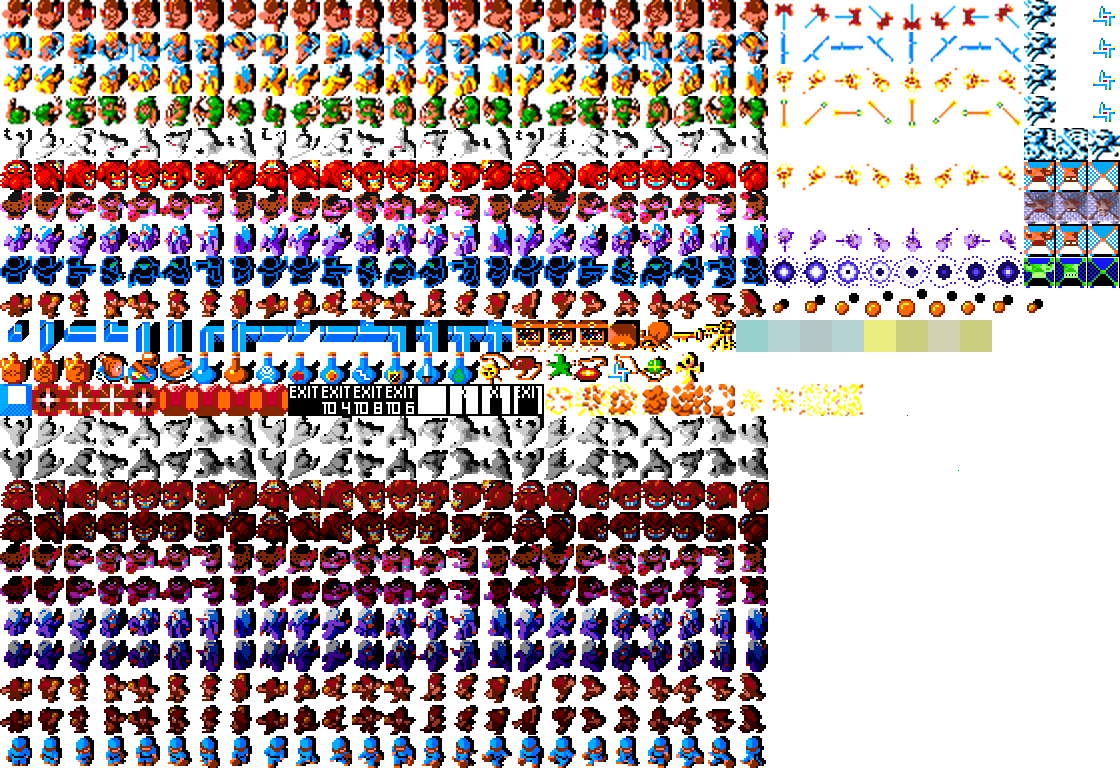
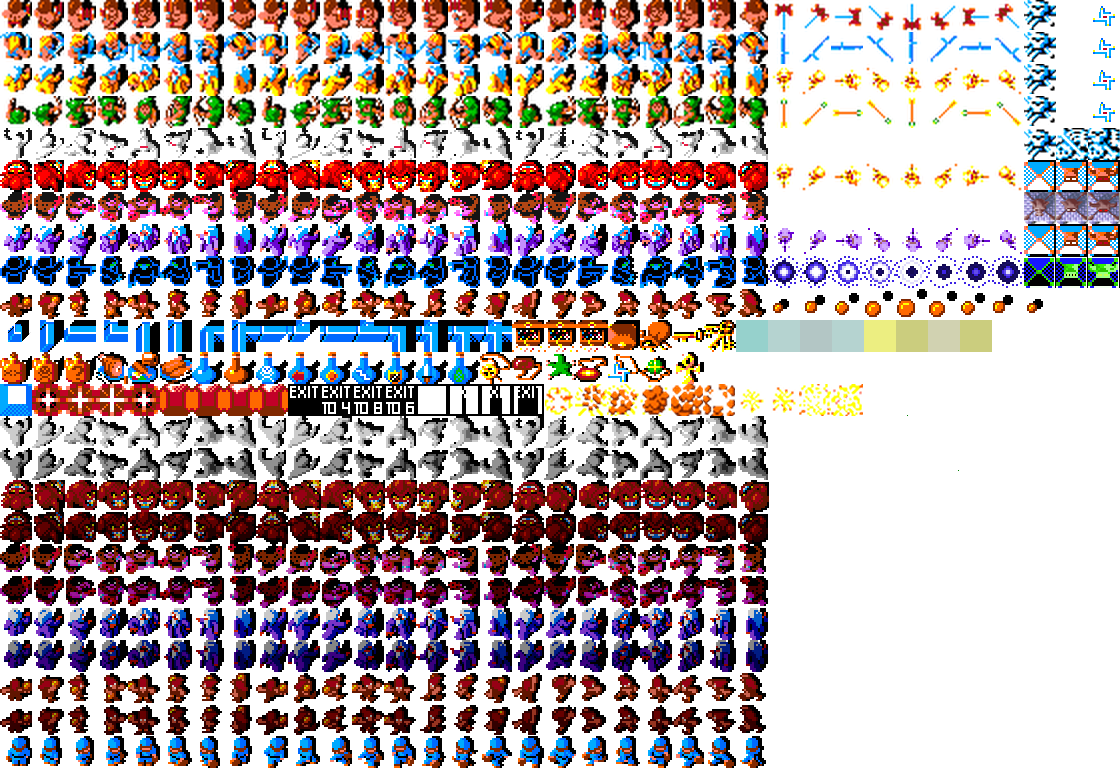
more gen tweak - sort & health fixes

Changed region(s): [[0.9062, 0.1562, 1.0, 0.375]]

diff --git a/js/gauntlet.js b/js/gauntlet.js
@@ -62,24 +62,24 @@
         ELF:      { sx: 0, sy: 3, frames: 3, fpf: FPS/10, health: 80, speed: 245/FPS, damage: 20/FPS, armor: 1, magic: 24, weapon: { speed: 660/FPS, reload: 0.25*FPS, damage: 4, rotate: false, sx: 24, sy: 3, fpf: FPS/10, player: true }, sex: "male",   name: "elf", annc: 'ancelf1', fcol: "<font color=green>"      }  // Questor
       },
       MONSTER = {
-        GHOST:  { sx: 0, sy: 4, frames: 3, fpf: FPS/10, score:  10, health:  4, speed: 140/FPS, damage: 100/FPS, selfharm: 30/FPS, canbeshot: true,  canbehit: false, invisibility: false,                     travelling: 0.5*FPS, thinking: 0.5*FPS, generator: { health:  30, speed: 2.5*FPS, max: 40, score: 100, sx: 34, sy: 4 }, name: "ghost",  weapon: null ,     nohlp: 41   },
-        DEMON:  { sx: 0, sy: 5, frames: 3, fpf: FPS/10, score:  20, health:  4, speed:  80/FPS, damage:  60/FPS, selfharm: 0,      canbeshot: true,  canbehit: true,  invisibility: false,                     travelling: 0.5*FPS, thinking: 0.5*FPS, generator: { health: 30, speed: 3.0*FPS, max: 40, score: 200, sx: 34, sy: 5 }, name: "demon",  weapon: { speed: 240/FPS, reload: 2*FPS, damage: 10, sx: 24, sy: 5, fpf: FPS/10, monster: true } ,     nohlp: 43 },
-        GRUNT:  { sx: 0, sy: 6, frames: 3, fpf: FPS/10, score:  30, health:  8, speed: 120/FPS, damage:  60/FPS, selfharm: 0,      canbeshot: true,  canbehit: true,  invisibility: false,                     travelling: 0.5*FPS, thinking: 0.5*FPS, generator: { health: 30, speed: 3.5*FPS, max: 40, score: 300, sx: 34, sy: 6 }, name: "grunt",  weapon: null     ,     nohlp: 42            },
-        WIZARD: { sx: 0, sy: 7, frames: 3, fpf: FPS/10, score:  30, health:  8, speed: 120/FPS, damage:  60/FPS, selfharm: 0,      canbeshot: true,  canbehit: true,  invisibility: { on: 3*FPS, off: 6*FPS }, travelling: 0.5*FPS, thinking: 0.5*FPS, generator: { health: 30, speed: 4.0*FPS, max: 20, score: 400, sx: 34, sy: 6 }, name: "sorcerer", weapon: null   ,     nohlp: 44               },
-        DEATH:  { sx: 0, sy: 8, frames: 3, fpf: FPS/10, score: 1, health: 2, speed: 180/FPS, damage: 120/FPS, selfharm: 6/FPS,  canbeshot: false, canbehit: 2, invisibility: false,                     travelling: 0.5*FPS, thinking: 0.5*FPS, generator: { health: 30, speed: 5.0*FPS, max: 10, score: 1000, sx: 34, sy: 8 }, name: "death",  weapon: null                 },
-        LOBBER: { sx: 0, sy: 9, frames: 3, fpf: FPS/10, score:  10, health:  4, speed: 60/FPS, damage:  0/FPS, selfharm: 0,      canbeshot: true,  canbehit: true,  invisibility: false, travelling: 0.3*FPS, thinking: 0.5*FPS, generator: { health: 30, speed: 2.5*FPS, max: 20, score: 100, sx: 34, sy: 6 }, name: "lobber", weapon: null    ,     nohlp: 45                },
+        GHOST:  { sx: 0, sy: 4, frames: 3, fpf: FPS/10, score:  10, health:  4, speed: 140/FPS, damage: 100/FPS, selfharm: 30/FPS, canbeshot: true,  canbehit: false, invisibility: false,                     travelling: 0.5*FPS, thinking: 0.5*FPS, generator: { health:  30, speed: 2.5*FPS, max: 40, score: 100, sx: 32, sy: 4 }, name: "ghost",  weapon: null ,     nohlp: 41   },
+        DEMON:  { sx: 0, sy: 5, frames: 3, fpf: FPS/10, score:  20, health:  4, speed:  80/FPS, damage:  60/FPS, selfharm: 0,      canbeshot: true,  canbehit: true,  invisibility: false,                     travelling: 0.5*FPS, thinking: 0.5*FPS, generator: { health: 30, speed: 3.0*FPS, max: 40, score: 200, sx: 32, sy: 5 }, name: "demon",  weapon: { speed: 240/FPS, reload: 2*FPS, damage: 10, sx: 24, sy: 5, fpf: FPS/10, monster: true } ,     nohlp: 43 },
+        GRUNT:  { sx: 0, sy: 6, frames: 3, fpf: FPS/10, score:  30, health:  8, speed: 120/FPS, damage:  60/FPS, selfharm: 0,      canbeshot: true,  canbehit: true,  invisibility: false,                     travelling: 0.5*FPS, thinking: 0.5*FPS, generator: { health: 30, speed: 3.5*FPS, max: 40, score: 300, sx: 32, sy: 6 }, name: "grunt",  weapon: null     ,     nohlp: 42            },
+        WIZARD: { sx: 0, sy: 7, frames: 3, fpf: FPS/10, score:  30, health:  8, speed: 120/FPS, damage:  60/FPS, selfharm: 0,      canbeshot: true,  canbehit: true,  invisibility: { on: 3*FPS, off: 6*FPS }, travelling: 0.5*FPS, thinking: 0.5*FPS, generator: { health: 30, speed: 4.0*FPS, max: 20, score: 400, sx: 32, sy: 6 }, name: "sorcerer", weapon: null   ,     nohlp: 44               },
+        DEATH:  { sx: 0, sy: 8, frames: 3, fpf: FPS/10, score: 1, health: 2, speed: 180/FPS, damage: 120/FPS, selfharm: 6/FPS,  canbeshot: false, canbehit: 2, invisibility: false,                     travelling: 0.5*FPS, thinking: 0.5*FPS, generator: { health: 30, speed: 5.0*FPS, max: 10, score: 1000, sx: 32, sy: 8 }, name: "death",  weapon: null                 },
+        LOBBER: { sx: 0, sy: 9, frames: 3, fpf: FPS/10, score:  10, health:  4, speed: 60/FPS, damage:  0/FPS, selfharm: 0,      canbeshot: true,  canbehit: true,  invisibility: false, travelling: 0.3*FPS, thinking: 0.5*FPS, generator: { health: 30, speed: 2.5*FPS, max: 20, score: 100, sx: 32, sy: 6 }, name: "lobber", weapon: null    ,     nohlp: 45                },
 // added level 2, level 1 monsters - set above is level 3
-		  GHOST1:  { sx: 0, sy: 14, frames: 3, fpf: FPS/10, score:  10, health:  4, speed: 140/FPS, damage: 100/FPS, selfharm: 30/FPS, canbeshot: true,  canbehit: false, invisibility: false,                     travelling: 0.5*FPS, thinking: 0.5*FPS, generator: { health:  20, speed: 2.5*FPS, max: 40, score: 50, sx: 32, sy: 4 }, name: "ghost",  weapon: null  ,     nohlp: 41        },
-        DEMON1:  { sx: 0, sy: 16, frames: 3, fpf: FPS/10, score:  20, health:  4, speed:  80/FPS, damage:  60/FPS, selfharm: 0,      canbeshot: true,  canbehit: true,  invisibility: false,                     travelling: 0.5*FPS, thinking: 0.5*FPS, generator: { health: 20, speed: 3.0*FPS, max: 40, score: 200, sx: 32, sy: 5 }, name: "demon",  weapon: { speed: 240/FPS, reload: 2*FPS, damage: 10, sx: 24, sy: 5, fpf: FPS/10, monster: true }  ,     nohlp: 43},
-        GRUNT1:  { sx: 0, sy: 18, frames: 3, fpf: FPS/10, score:  30, health:  8, speed: 120/FPS, damage:  60/FPS, selfharm: 0,      canbeshot: true,  canbehit: true,  invisibility: false,                     travelling: 0.5*FPS, thinking: 0.5*FPS, generator: { health: 20, speed: 3.5*FPS, max: 40, score: 300, sx: 32, sy: 6 }, name: "grunt",  weapon: null     ,     nohlp: 42              },
-        WIZARD1: { sx: 0, sy: 20, frames: 3, fpf: FPS/10, score:  30, health:  8, speed: 120/FPS, damage:  60/FPS, selfharm: 0,      canbeshot: true,  canbehit: true,  invisibility: { on: 3*FPS, off: 6*FPS }, travelling: 0.5*FPS, thinking: 0.5*FPS, generator: { health: 20, speed: 4.0*FPS, max: 20, score: 400, sx: 32, sy: 6 }, name: "sorcerer", weapon: null     ,     nohlp: 44            },
-        LOBBER1: { sx: 0, sy: 22, frames: 3, fpf: FPS/10, score:  10, health:  4, speed: 60/FPS, damage:  40/FPS, selfharm: 0,      canbeshot: true,  canbehit: true,  invisibility: false, travelling: 0.5*FPS, thinking: 0.5*FPS, generator: { health: 20, speed: 2.5*FPS, max: 20, score: 100, sx: 32, sy: 6 }, name: "lobber", weapon: null   ,     nohlp: 45                 },
-        GHOST2:  { sx: 0, sy: 13, frames: 3, fpf: FPS/10, score:  10, health:  4, speed: 140/FPS, damage: 100/FPS, selfharm: 30/FPS, canbeshot: true,  canbehit: false, invisibility: false,                     travelling: 0.5*FPS, thinking: 0.5*FPS, generator: { health:  10, speed: 2.5*FPS, max: 40, score: 50, sx: 33, sy: 4 }, name: "ghost",  weapon: null  ,     nohlp: 41        },
-        DEMON2:  { sx: 0, sy: 15, frames: 3, fpf: FPS/10, score:  20, health:  4, speed:  80/FPS, damage:  60/FPS, selfharm: 0,      canbeshot: true,  canbehit: true,  invisibility: false,                     travelling: 0.5*FPS, thinking: 0.5*FPS, generator: { health: 10, speed: 3.0*FPS, max: 40, score: 200, sx: 33, sy: 5 }, name: "demon",  weapon: { speed: 240/FPS, reload: 2*FPS, damage: 10, sx: 24, sy: 5, fpf: FPS/10, monster: true } ,     nohlp: 43 },
-        GRUNT2:  { sx: 0, sy: 17, frames: 3, fpf: FPS/10, score:  30, health:  8, speed: 120/FPS, damage:  60/FPS, selfharm: 0,      canbeshot: true,  canbehit: true,  invisibility: false,                     travelling: 0.5*FPS, thinking: 0.5*FPS, generator: { health: 10, speed: 3.5*FPS, max: 40, score: 300, sx: 33, sy: 6 }, name: "grunt",  weapon: null    ,     nohlp: 42               },
-        WIZARD2: { sx: 0, sy: 19, frames: 3, fpf: FPS/10, score:  30, health:  8, speed: 120/FPS, damage:  60/FPS, selfharm: 0,      canbeshot: true,  canbehit: true,  invisibility: { on: 3*FPS, off: 6*FPS }, travelling: 0.5*FPS, thinking: 0.5*FPS, generator: { health: 10, speed: 4.0*FPS, max: 20, score: 400, sx: 33, sy: 6 }, name: "sorcerer", weapon: null     ,     nohlp: 44            },
-        LOBBER2: { sx: 0, sy: 21, frames: 3, fpf: FPS/10, score:  10, health:  4, speed: 60/FPS, damage:  40/FPS, selfharm: 0,      canbeshot: true,  canbehit: true,  invisibility: false, travelling: 0.5*FPS, thinking: 0.5*FPS, generator: { health: 10, speed: 2.5*FPS, max: 20, score: 100, sx: 33, sy: 6 }, name: "lobber", weapon: null  ,     nohlp: 45               },
-        THIEF: { sx: 0, sy: 23, frames: 3, fpf: FPS/10, score:  500, health:  4, speed: 200/FPS, damage:  40/FPS, selfharm: 0,      canbeshot: true,  canbehit: true,  invisibility: false, travelling: 0.5*FPS, thinking: 0.5*FPS, generator: { health: 10, speed: 2.5*FPS, max: 20, score: 100, sx: 33, sy: 6 }, name: "thief", weapon: null  ,     nohlp: 39               }
+        GHOST2:  { sx: 0, sy: 13, frames: 3, fpf: FPS/10, score:  10, health:  4, speed: 140/FPS, damage: 100/FPS, selfharm: 30/FPS, canbeshot: true,  canbehit: false, invisibility: false,                     travelling: 0.5*FPS, thinking: 0.5*FPS, generator: { health:  20, speed: 2.5*FPS, max: 40, score: 50, sx: 32, sy: 4 }, name: "ghost",  weapon: null  ,     nohlp: 41        },
+        DEMON2:  { sx: 0, sy: 15, frames: 3, fpf: FPS/10, score:  20, health:  4, speed:  80/FPS, damage:  60/FPS, selfharm: 0,      canbeshot: true,  canbehit: true,  invisibility: false,                     travelling: 0.5*FPS, thinking: 0.5*FPS, generator: { health: 20, speed: 3.0*FPS, max: 40, score: 200, sx: 32, sy: 5 }, name: "demon",  weapon: { speed: 240/FPS, reload: 2*FPS, damage: 10, sx: 24, sy: 5, fpf: FPS/10, monster: true } ,     nohlp: 43 },
+        GRUNT2:  { sx: 0, sy: 17, frames: 3, fpf: FPS/10, score:  30, health:  8, speed: 120/FPS, damage:  60/FPS, selfharm: 0,      canbeshot: true,  canbehit: true,  invisibility: false,                     travelling: 0.5*FPS, thinking: 0.5*FPS, generator: { health: 20, speed: 3.5*FPS, max: 40, score: 300, sx: 32, sy: 6 }, name: "grunt",  weapon: null    ,     nohlp: 42               },
+        WIZARD2: { sx: 0, sy: 19, frames: 3, fpf: FPS/10, score:  30, health:  8, speed: 120/FPS, damage:  60/FPS, selfharm: 0,      canbeshot: true,  canbehit: true,  invisibility: { on: 3*FPS, off: 6*FPS }, travelling: 0.5*FPS, thinking: 0.5*FPS, generator: { health: 20, speed: 4.0*FPS, max: 20, score: 400, sx: 32, sy: 6 }, name: "sorcerer", weapon: null     ,     nohlp: 44            },
+        LOBBER2: { sx: 0, sy: 21, frames: 3, fpf: FPS/10, score:  10, health:  4, speed: 60/FPS, damage:  40/FPS, selfharm: 0,      canbeshot: true,  canbehit: true,  invisibility: false, travelling: 0.5*FPS, thinking: 0.5*FPS, generator: { health: 20, speed: 2.5*FPS, max: 20, score: 100, sx: 32, sy: 6 }, name: "lobber", weapon: null  ,     nohlp: 45               },
+		  GHOST1:  { sx: 0, sy: 14, frames: 3, fpf: FPS/10, score:  10, health:  4, speed: 140/FPS, damage: 100/FPS, selfharm: 30/FPS, canbeshot: true,  canbehit: false, invisibility: false,                     travelling: 0.5*FPS, thinking: 0.5*FPS, generator: { health:  10, speed: 2.5*FPS, max: 40, score: 50, sx: 32, sy: 4 }, name: "ghost",  weapon: null  ,     nohlp: 41        },
+        DEMON1:  { sx: 0, sy: 16, frames: 3, fpf: FPS/10, score:  20, health:  4, speed:  80/FPS, damage:  60/FPS, selfharm: 0,      canbeshot: true,  canbehit: true,  invisibility: false,                     travelling: 0.5*FPS, thinking: 0.5*FPS, generator: { health: 10, speed: 3.0*FPS, max: 40, score: 200, sx: 32, sy: 5 }, name: "demon",  weapon: { speed: 240/FPS, reload: 2*FPS, damage: 10, sx: 24, sy: 5, fpf: FPS/10, monster: true }  ,     nohlp: 43},
+        GRUNT1:  { sx: 0, sy: 18, frames: 3, fpf: FPS/10, score:  30, health:  8, speed: 120/FPS, damage:  60/FPS, selfharm: 0,      canbeshot: true,  canbehit: true,  invisibility: false,                     travelling: 0.5*FPS, thinking: 0.5*FPS, generator: { health: 10, speed: 3.5*FPS, max: 40, score: 300, sx: 32, sy: 6 }, name: "grunt",  weapon: null     ,     nohlp: 42              },
+        WIZARD1: { sx: 0, sy: 20, frames: 3, fpf: FPS/10, score:  30, health:  8, speed: 120/FPS, damage:  60/FPS, selfharm: 0,      canbeshot: true,  canbehit: true,  invisibility: { on: 3*FPS, off: 6*FPS }, travelling: 0.5*FPS, thinking: 0.5*FPS, generator: { health: 10, speed: 4.0*FPS, max: 20, score: 400, sx: 32, sy: 6 }, name: "sorcerer", weapon: null     ,     nohlp: 44            },
+        LOBBER1: { sx: 0, sy: 22, frames: 3, fpf: FPS/10, score:  10, health:  4, speed: 60/FPS, damage:  40/FPS, selfharm: 0,      canbeshot: true,  canbehit: true,  invisibility: false, travelling: 0.5*FPS, thinking: 0.5*FPS, generator: { health: 10, speed: 2.5*FPS, max: 20, score: 100, sx: 32, sy: 6 }, name: "lobber", weapon: null   ,     nohlp: 45                 },
+        THIEF: { sx: 0, sy: 23, frames: 3, fpf: FPS/10, score:  500, health:  4, speed: 200/FPS, damage:  40/FPS, selfharm: 0,      canbeshot: true,  canbehit: true,  invisibility: false, travelling: 0.5*FPS, thinking: 0.5*FPS, generator: { health: 10, speed: 2.5*FPS, max: 20, score: 100, sx: 32, sy: 6 }, name: "thief", weapon: null  ,     nohlp: 39               }
       },
 // track a potential "richest" player path - (really have to track them all...)
 		THIEFTRX = [ ], THIEFTRY = [ ], thieftrack = 0,
@@ -241,7 +241,7 @@
         PLAYER_GLOW:     { frames: FPS/2, border: 5 }
       },
       PLAYERS   = [ PLAYER.WARRIOR, PLAYER.VALKYRIE, PLAYER.WIZARD, PLAYER.ELF ],
-      MONSTERS  = [ MONSTER.GHOST, MONSTER.DEMON, MONSTER.GRUNT, MONSTER.WIZARD, MONSTER.DEATH, MONSTER.LOBBER, MONSTER.GHOST1, MONSTER.DEMON1, MONSTER.GRUNT1, MONSTER.WIZARD1, MONSTER.LOBBER1, MONSTER.GHOST2, MONSTER.DEMON2, MONSTER.GRUNT2, MONSTER.WIZARD2, MONSTER.LOBBER2, MONSTER.THIEF ],
+      MONSTERS  = [ MONSTER.GHOST, MONSTER.DEMON, MONSTER.GRUNT, MONSTER.WIZARD, MONSTER.DEATH, MONSTER.LOBBER, MONSTER.GHOST2, MONSTER.DEMON2, MONSTER.GRUNT2, MONSTER.WIZARD2, MONSTER.LOBBER2, MONSTER.GHOST1, MONSTER.DEMON1, MONSTER.GRUNT1, MONSTER.WIZARD1, MONSTER.LOBBER1, MONSTER.THIEF ],
       TREASURES = [ TREASURE.HEALTH, TREASURE.POISON, TREASURE.FOOD1, TREASURE.FOOD2, TREASURE.FOOD3, TREASURE.KEY, TREASURE.POTION, TREASURE.GOLD, 
 											TREASURE.LOCKED, TREASURE.BAG, TREASURE.TELEPORT, TREASURE.TRAP, TREASURE.STUN, TREASURE.PUSH,
 											TREASURE.XSPEED, TREASURE.LIMINVIS, TREASURE.SHOTWALL, TREASURE.SHOTFAKER, TREASURE.PERMFAKER, 
@@ -2050,7 +2050,8 @@ var ymir = false, xmir = false;
     },
 
     onrender: function(frame) {
-      this.frame = (2 - Math.floor(3 * (this.health / (this.type.health + 1))));
+		 var lvl = Math.ceil(this.health / 10);
+      this.frame = lvl - 1;		//(2 - Math.floor(3 * (this.health / (this.type.health + 1))));
     }
 
   });
